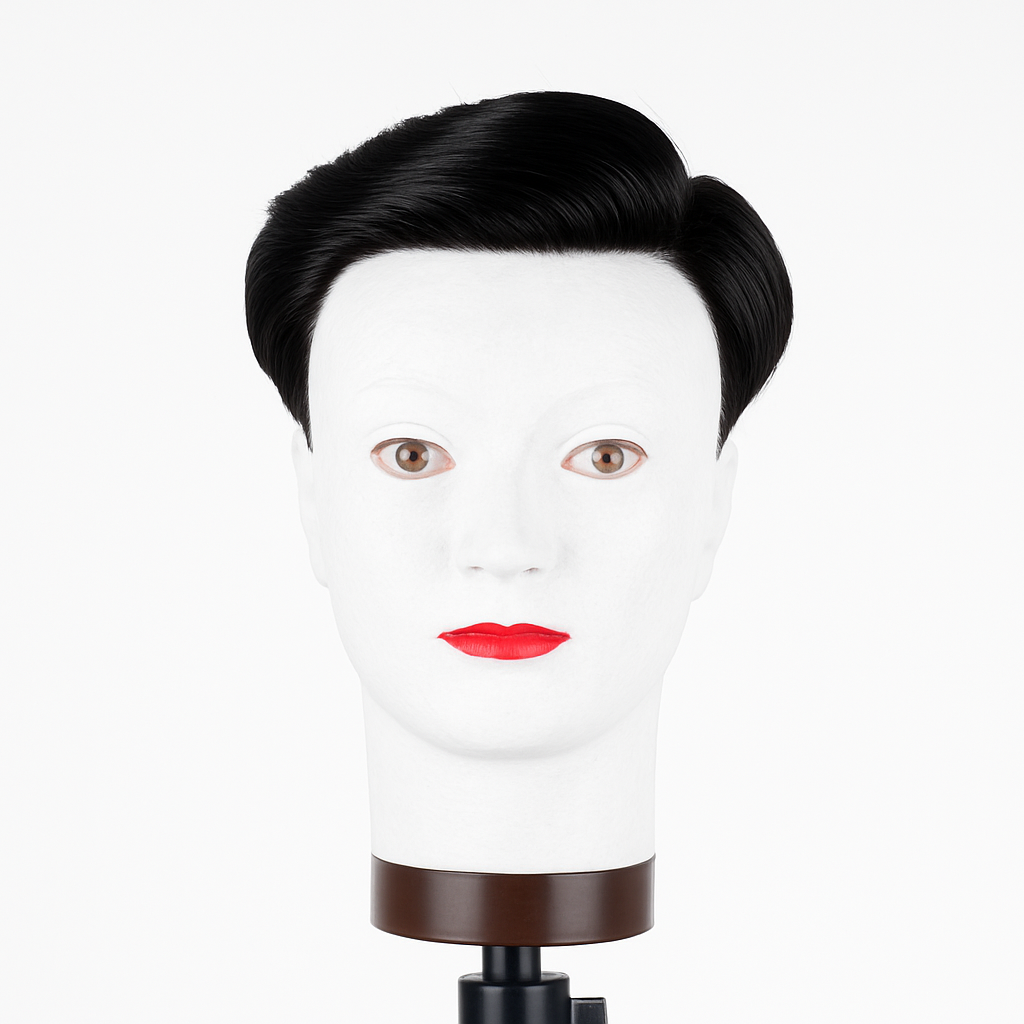
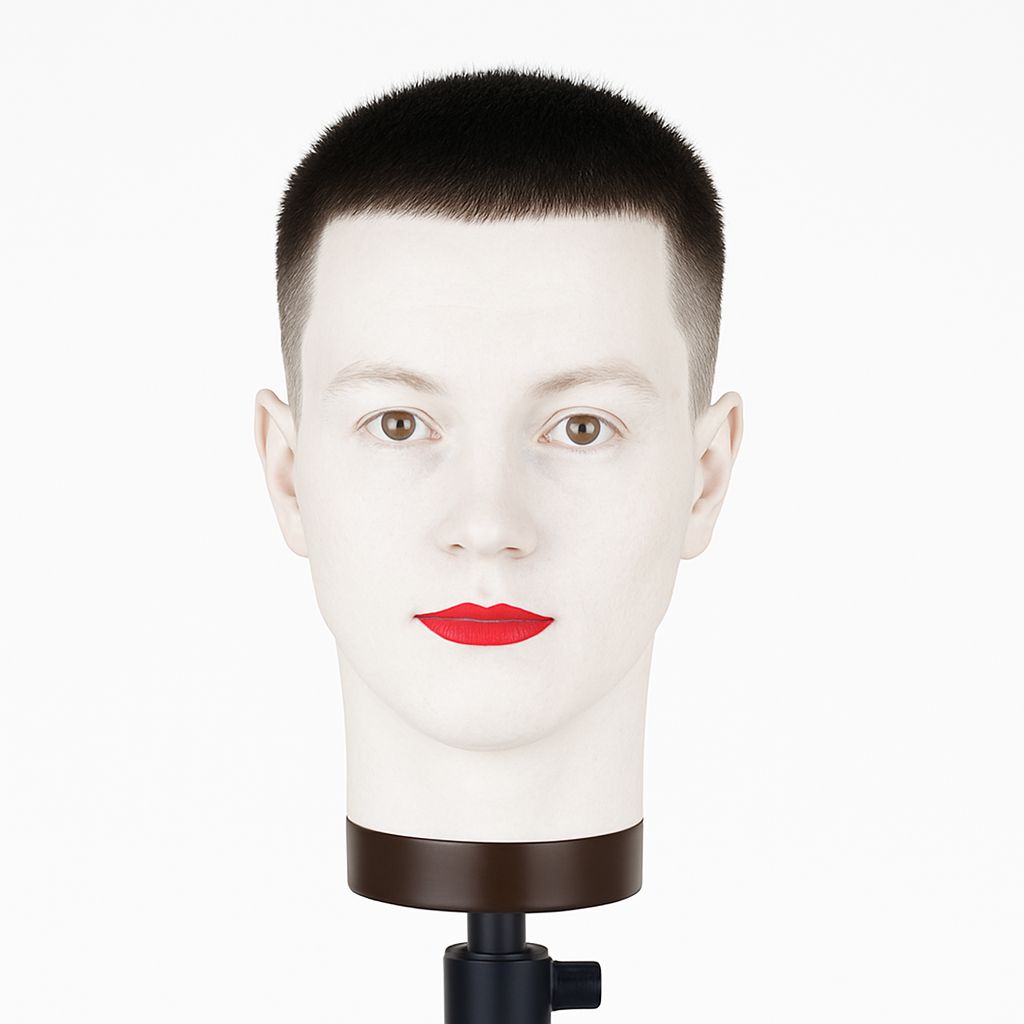
change wig image

diff --git a/src/components/pages/TryOn/SwapHairForm[1].jsx b/src/components/pages/TryOn/SwapHairForm[1].jsx
@@ -714,13 +714,13 @@ const PREDEFINED_WIGS = [
   {
     id: 'wig1',
     name: 'Curly Wave Style 1',
-    imgSrc: '/Wigs/wig3.png',
+    imgSrc: '/Wigs/wig1.png',
     rating: 4.8, price: '₹1280', originalPrice: '₹2290', discount: '(50% OFF)',
   },
   {
     id: 'wig2',
     name: 'Straight Bob Style',
-    imgSrc: '/Wigs/wig3.png',
+    imgSrc: '/Wigs/wig2.png',
     rating: 4.7, price: '₹1350', originalPrice: '₹2400', discount: '(44% OFF)',
   },
   {
@@ -732,7 +732,7 @@ const PREDEFINED_WIGS = [
   {
     id: 'wig4',
     name: 'Short Pixie Cut',
-    imgSrc: '/Wigs/wig3.png',
+    imgSrc: '/Wigs/wig4.png',
     rating: 4.6, price: '₹1100', originalPrice: '₹2000', discount: '(45% OFF)',
   },
 ];
